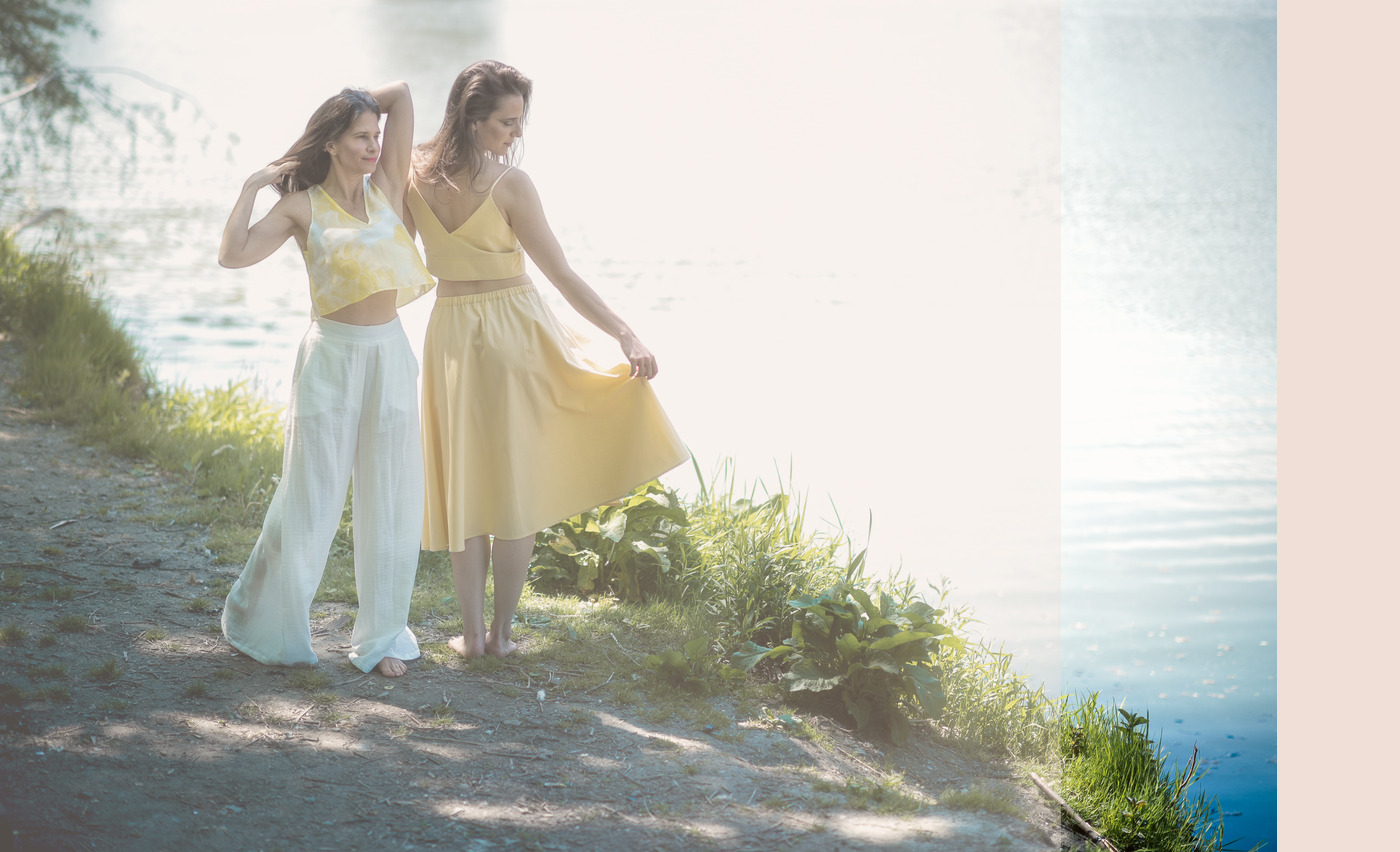
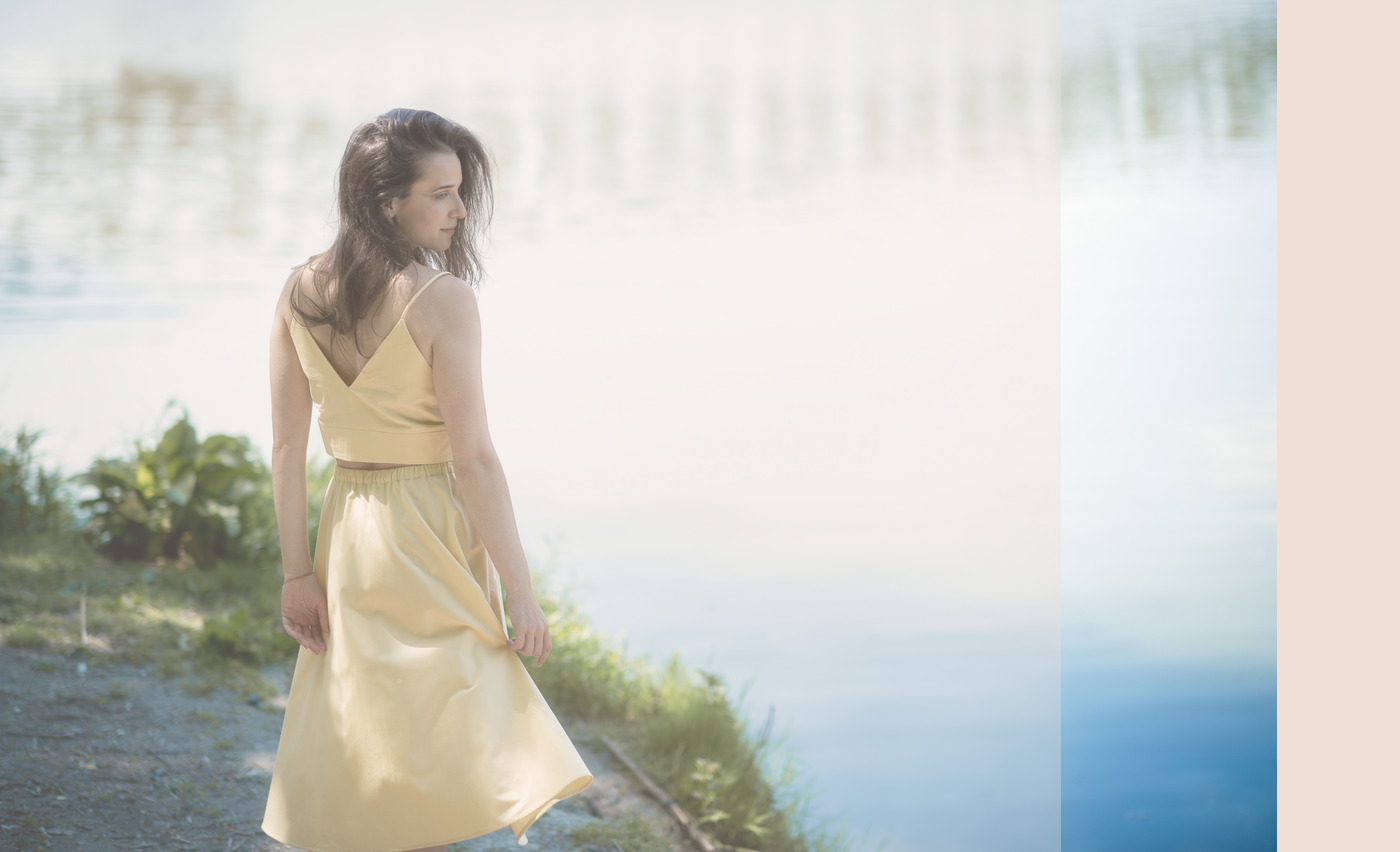
chore: added discount code advert and changed slides

diff --git a/src/pages/index.tsx b/src/pages/index.tsx
@@ -25,6 +25,13 @@ export default function Index() {
     <Container fluid>
       <Header description="landing-and-default" />
       <Nav />
+      <div className="col-12">
+        <p className="text-center" style={{
+          fontSize: '1.5em',
+          backgroundColor: 'black',
+          color: 'white',
+        }}>20% Summer sale! Use promo code summersale20</p>
+      </div>
       <div className="row">
         <div className="col-md-12 noPadding">
           <Slider />
